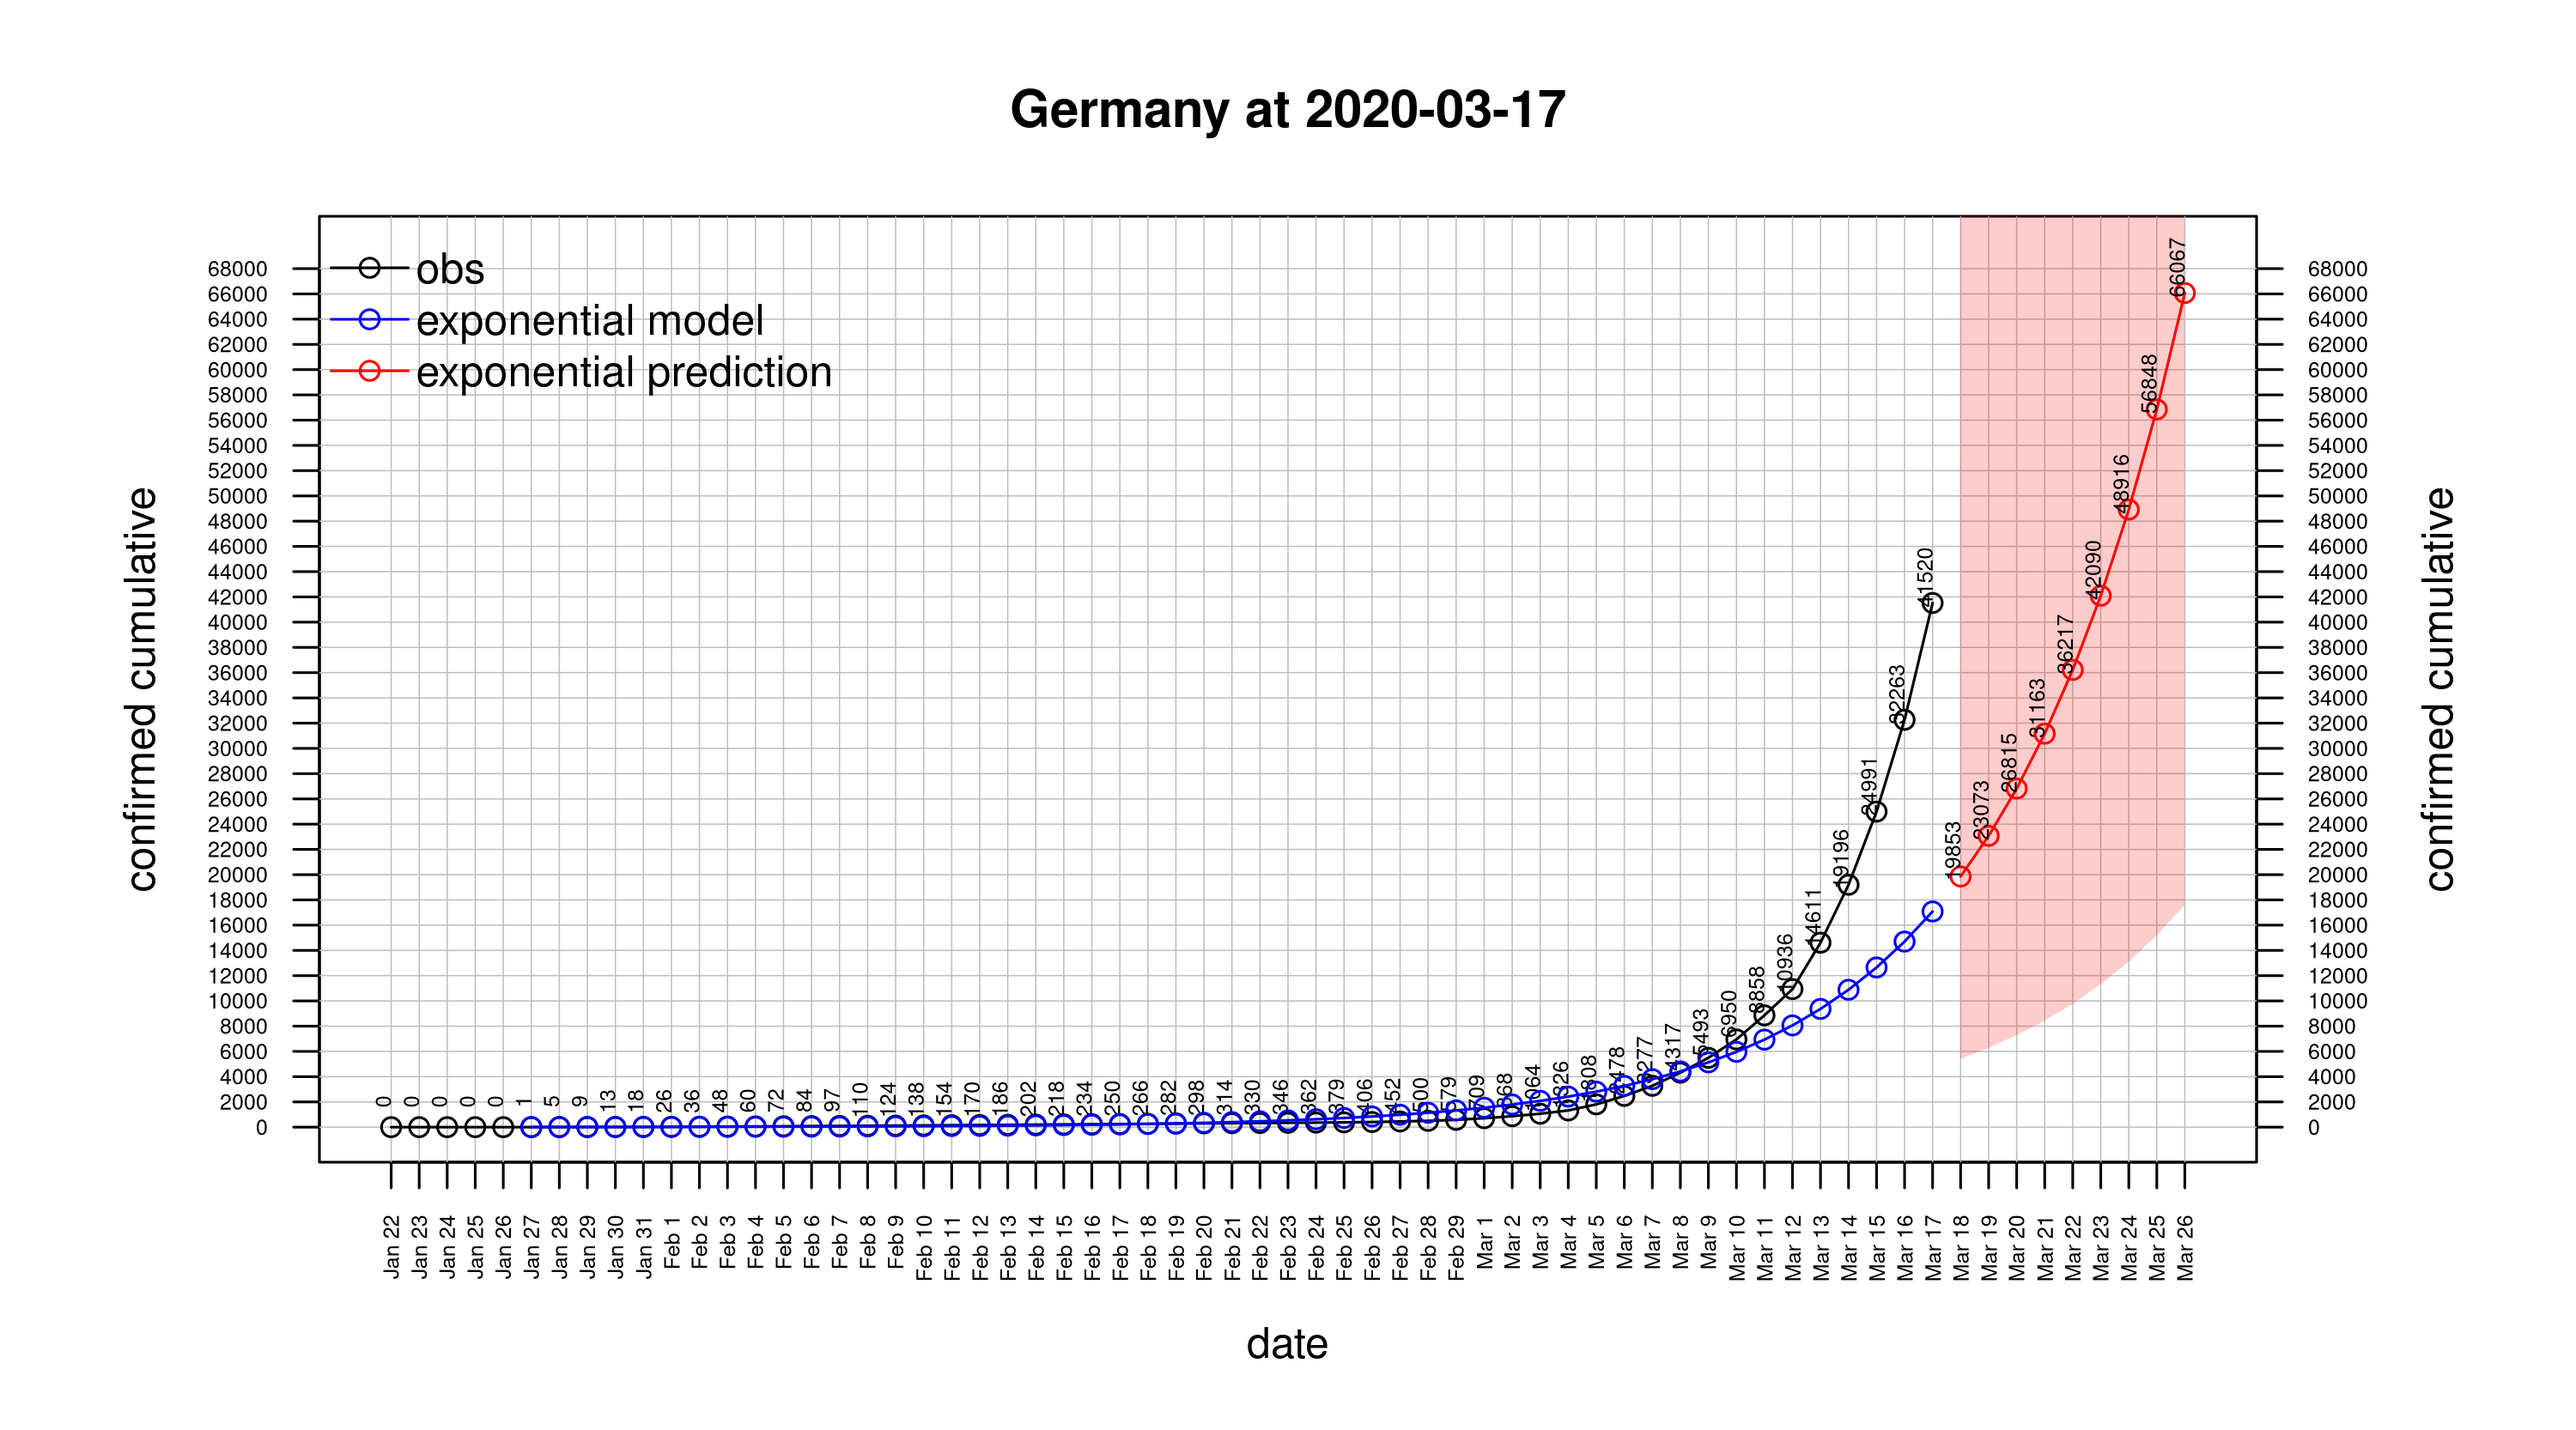
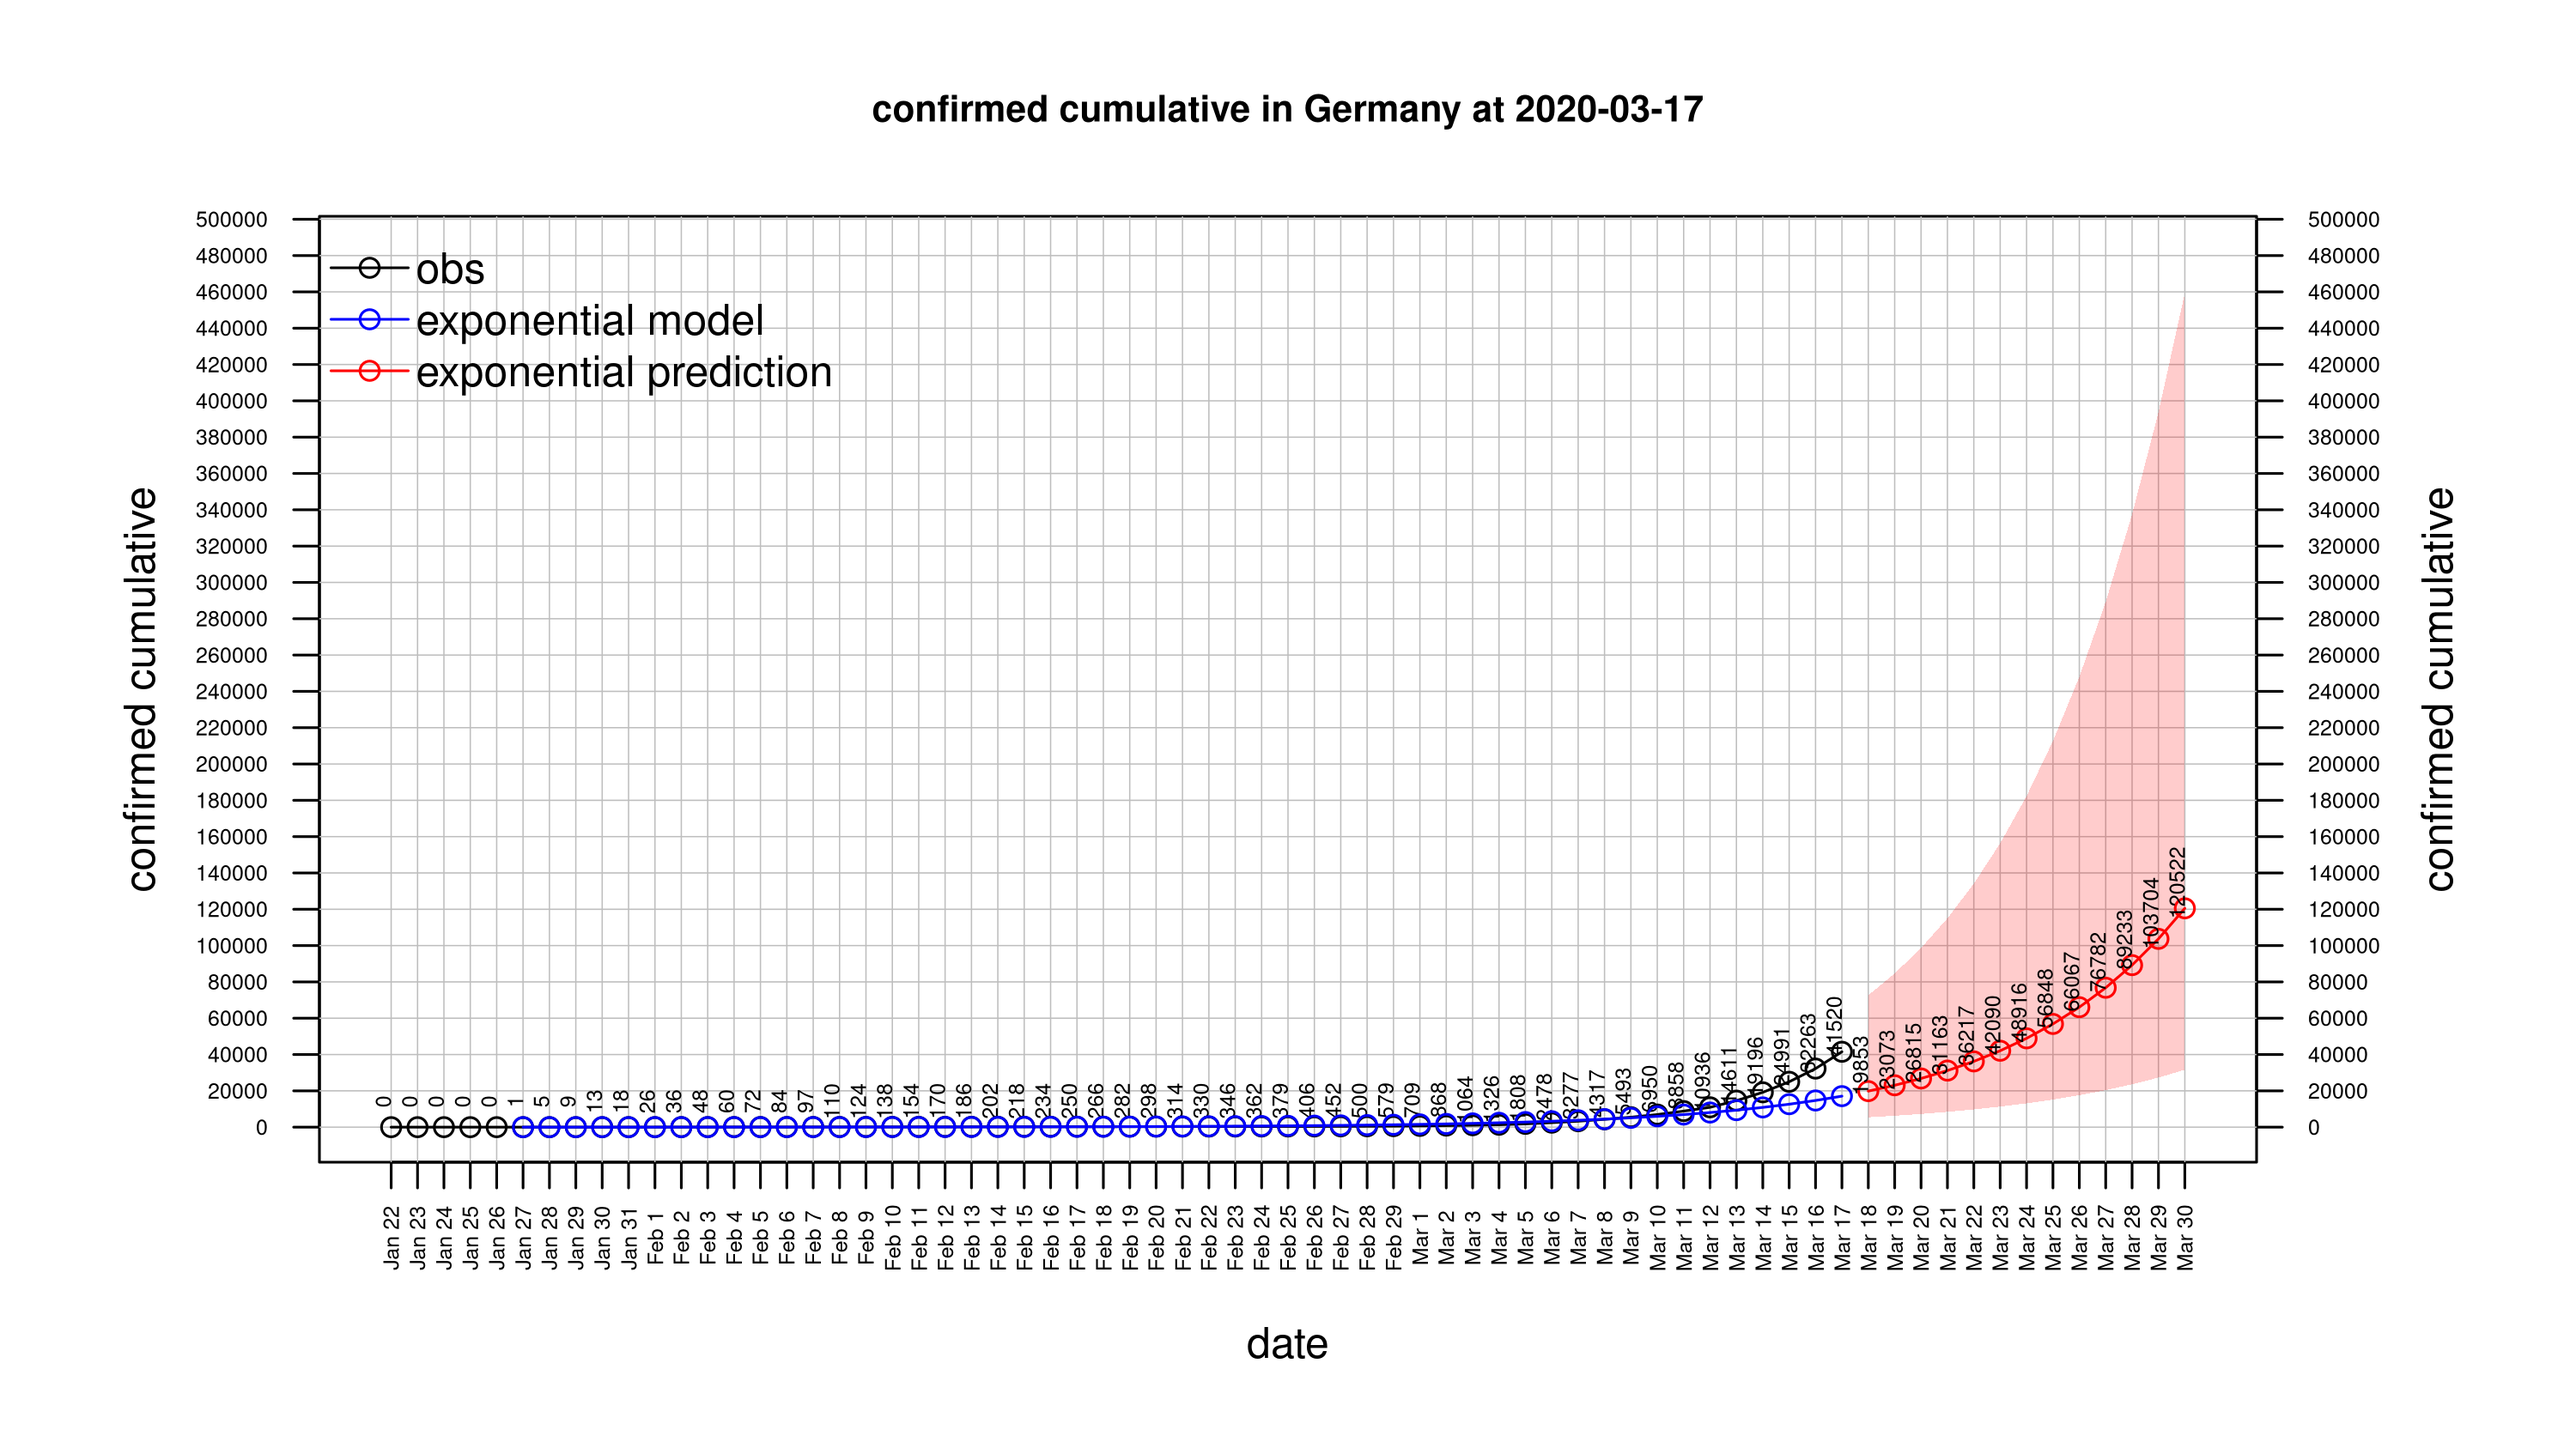
asd

Changed region(s): [[0.062, 0.1248, 0.93, 0.9052], [0.341, 0.0624, 0.651, 0.0936]]

diff --git a/r_plots/README.md b/r_plots/README.md
@@ -2,13 +2,13 @@
 
 Germany:
 <br>
-<img align="center" width="1000" src="plots/Germany_deaths.png">
+<img align="center" width="1000" src="plots/Germany_deaths_logy.png">
 <br>
-<img align="center" width="1000" src="plots/Germany_confirmed_per_day.png">
+<img align="center" width="1000" src="plots/Germany_confirmed_per_day_logy.png">
 <br>
-<img align="center" width="1000" src="plots/Germany_confirmed_cumulative.png">
+<img align="center" width="1000" src="plots/Germany_confirmed_cumulative_logy.png">
 <br>
-<img align="center" width="1000" src="plots/Germany_change_of_confirmed_per_day.png">
+<img align="center" width="1000" src="plots/Germany_change_of_confirmed_per_day_logy.png">
 <br>
 <br>
 
